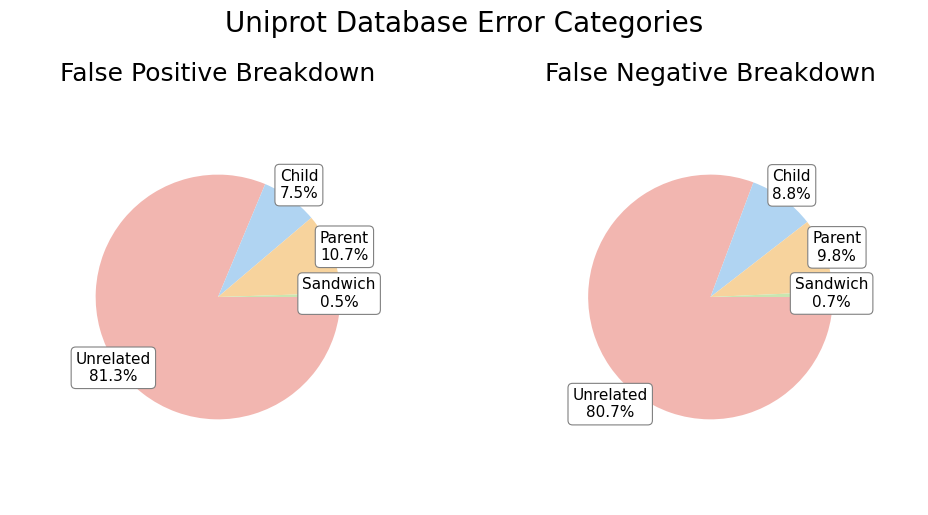
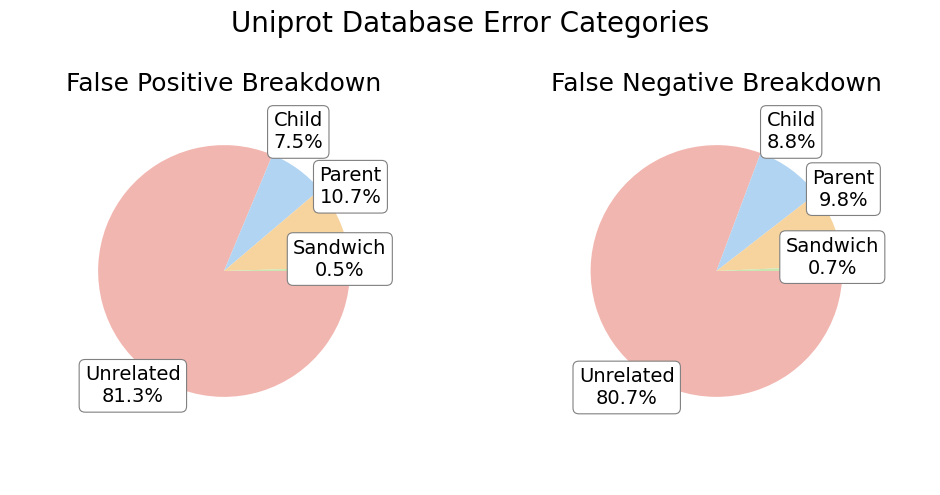
gimme dem

diff --git a/nan_tools.py b/nan_tools.py
@@ -131,7 +131,7 @@ import pickle
 with open("go_cache.pkl", "rb") as f:       # holds information about each go_term
      cache = pickle.load(f)
 
-print(len(cache))
+# print(len(cache))
 
 def go_term_lookup(go_id):
     print(cache[go_id])
@@ -143,8 +143,6 @@ from adjustText import adjust_text
 def custom_pie(ax, values, categories, colors, title):
     categories = [c.capitalize() for c in categories]
     wedges, _ = ax.pie(values, colors=colors, startangle=0, counterclock=False)
-    ax.set_title(title, fontsize=24)
-
     bbox_props = dict(boxstyle="round,pad=0.3", fc="white", ec="gray", lw=0.8)
 
     texts = []
@@ -153,15 +151,21 @@ def custom_pie(ax, values, categories, colors, title):
         x = np.cos(np.deg2rad(ang)) * 1.3
         y = np.sin(np.deg2rad(ang)) * 1.3
         t = ax.text(x, y, f"{cat}\n{val:.1f}%", ha="center", va="center",
-                     fontsize=11, bbox=bbox_props)
+                     fontsize=14, bbox=bbox_props)
         texts.append(t)
 
-    # automatically nudges overlapping labels apart and draws leader lines
-    adjust_text(texts, ax=ax, arrowprops=dict(arrowstyle="-", color="gray", lw=0.8))
+    adjust_text(
+        texts,
+        ax=ax,
+        only_move={"text": "xy"},
+        expand=(1.05, 1.4),
+        force_text=(0.2, 0.3),
+    )
+
     ax.set_xlim(-1.7, 1.7)
     ax.set_ylim(-1.7, 1.7)
 
-    ax.set_title(title, fontsize=18)
+    ax.set_title(title, fontsize=18, y=0.9)
 
 def custom_piecharts(fp,fn, comparison):
 
@@ -182,7 +186,7 @@ def custom_piecharts(fp,fn, comparison):
         custom_pie(ax_pie1, fp_values, fp_categories, colors, "False Positive Breakdown")
         custom_pie(ax_pie2, fn_values, fn_categories, colors, "False Negative Breakdown")
 
-        fig.suptitle(f"{comparison} Database Error Categories", fontsize=20, y=1.02)
+        fig.suptitle(f"{comparison} Database Error Categories", fontsize=20)
 
         plt.tight_layout()
 
@@ -212,4 +216,98 @@ fn_quick = {'Unrelated': 49.9,
           'Sandwich': 0.5}
 
 custom_piecharts(fp_uni,fn_uni, 'Uniprot')
-custom_piecharts(fp_quick,fn_quick, 'Quick')
+custom_piecharts(fp_quick,fn_quick, 'QuickGo')
+
+
+# import numpy as np
+# import matplotlib.pyplot as plt
+# import matplotlib.gridspec as gridspec
+# from adjustText import adjust_text
+ 
+ 
+# def custom_pie(ax, values, categories, colors, title):
+#     categories = [c.capitalize() for c in categories]
+#     wedges, _ = ax.pie(values, colors=colors, startangle=0, counterclock=False)
+#     ax.set_title(title, fontsize=18, y=0.95)
+ 
+#     bbox_props = dict(boxstyle="round,pad=0.3", fc="white", ec="gray", lw=0.8)
+ 
+#     texts = []
+#     anchor_points = []  # points on the wedge edge that each label connects back to
+ 
+#     for wedge, val, cat in zip(wedges, values, categories):
+#         ang = (wedge.theta2 - wedge.theta1) / 2. + wedge.theta1
+#         # anchor sits right on the pie edge
+#         ax_ = np.cos(np.deg2rad(ang)) * 1.45
+#         ay_ = np.sin(np.deg2rad(ang)) * 1.45
+#         anchor_points.append((ax_, ay_))
+ 
+#         # initial label guess, slightly out from the pie
+#         x = np.cos(np.deg2rad(ang))
+#         y = np.sin(np.deg2rad(ang)) 
+#         t = ax.text(x, y, f"{cat}\n{val:.1f}%", ha="center", va="center",
+#                      fontsize=14, bbox=bbox_props)
+#         texts.append(t)
+ 
+#     # let adjustText spread out any overlapping boxes and draw leader lines
+#     # back to the wedge edge they belong to
+#     adjust_text(
+#         texts,
+#         ax=ax,
+#         objects=wedges,
+#         arrowprops=dict(arrowstyle="-", color="gray", lw=0.8),
+#         expand=(1.2, 1.4),
+#         force_text=(0.6, 0.8),
+#     )
+ 
+#     ax.set_xlim(-1.9, 1.9)
+#     ax.set_ylim(-1.9, 1.9)
+ 
+ 
+# def custom_piecharts(fp, fn, comparison):
+ 
+#     colors = ["#f2b6b0", "#b0d4f2", "#f7d39d", "#c9e6b0"]
+ 
+#     fig = plt.figure(figsize=(10, 5))
+#     gs = gridspec.GridSpec(1, 2)
+ 
+#     ax_pie1 = fig.add_subplot(gs[0, 0])
+#     ax_pie2 = fig.add_subplot(gs[0, 1])
+ 
+#     fp_categories = list(fp.keys())
+#     fp_values = list(fp.values())
+ 
+#     fn_categories = list(fn.keys())
+#     fn_values = list(fn.values())
+ 
+#     custom_pie(ax_pie1, fp_values, fp_categories, colors, "False Positive Breakdown")
+#     custom_pie(ax_pie2, fn_values, fn_categories, colors, "False Negative Breakdown")
+ 
+#     fig.suptitle(f"{comparison} Database Error Categories", fontsize=20)
+ 
+#     plt.tight_layout(rect=[0, 0, 1, 0.93])  # leave room for suptitle
+ 
+#     plt.savefig(f"{comparison}_pies.png", bbox_inches="tight")
+#     plt.close(fig)
+ 
+ 
+# fp_uni = {'Unrelated': 81.3,
+#           'Child': 7.5,
+#           'Parent': 10.7,
+#           'Sandwich': 0.5}
+# fn_uni = {'Unrelated': 80.7,
+#           'Child': 8.8,
+#           'Parent': 9.8,
+#           'Sandwich': 0.7}
+ 
+# fp_quick = {'Unrelated': 83.1,
+#             'Child': 12.4,
+#             'Parent': 3.6,
+#             'Sandwich': 1}
+# fn_quick = {'Unrelated': 49.9,
+#             'Child': 4.6,
+#             'Parent': 45,
+#             'Sandwich': 0.5}
+ 
+# custom_piecharts(fp_uni, fn_uni, 'Uniprot')
+# custom_piecharts(fp_quick, fn_quick, 'Quick')

diff --git a/nan_freq.py b/nan_freq.py
@@ -11,11 +11,11 @@ from matplotlib.colors import LinearSegmentedColormap
 tqdm.pandas()
 
 plt.rcParams.update({
-    'font.size': 20,
-    'axes.titlesize': 20,
-    'axes.labelsize': 20,
-    'xtick.labelsize': 14,
-    'ytick.labelsize': 14,
+    'font.size': 24,
+    'axes.titlesize': 24,
+    'axes.labelsize': 24,
+    'xtick.labelsize': 20,
+    'ytick.labelsize': 20,
 })
 
 